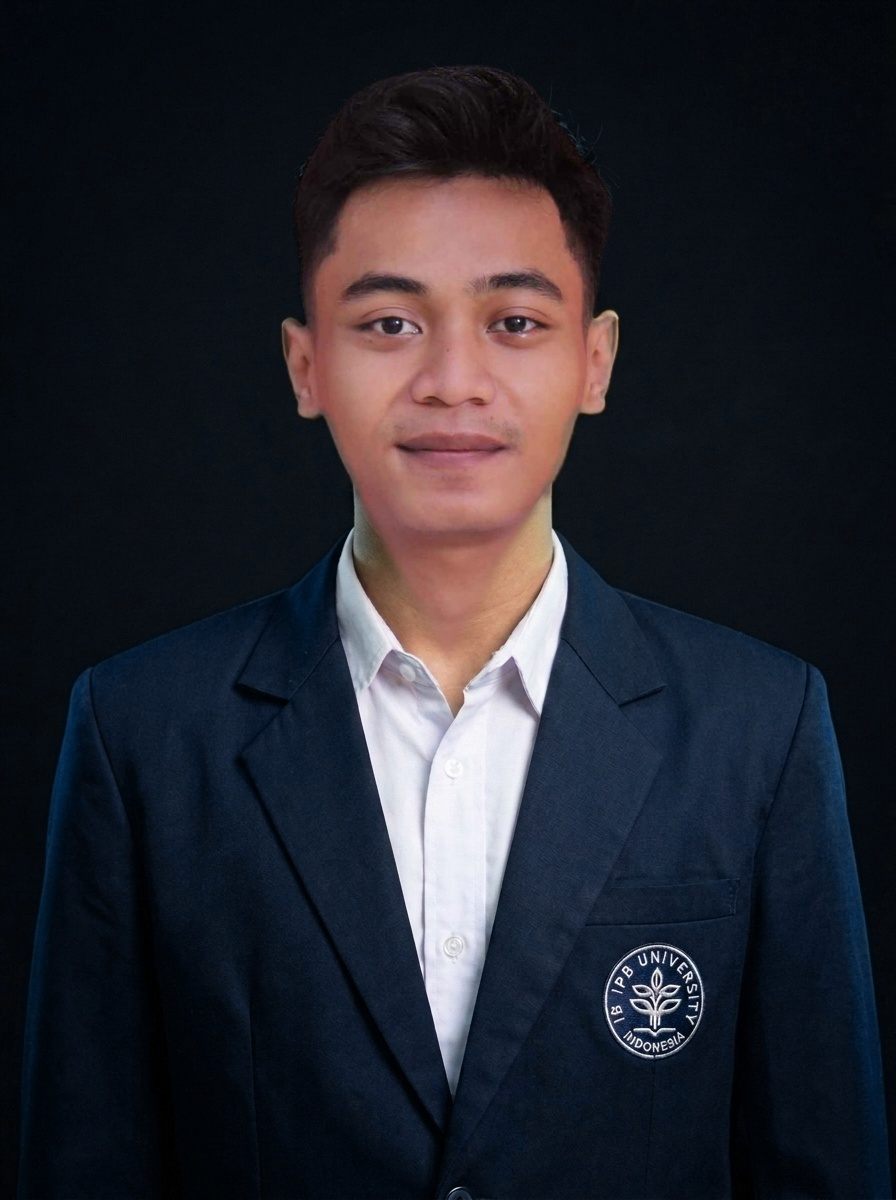
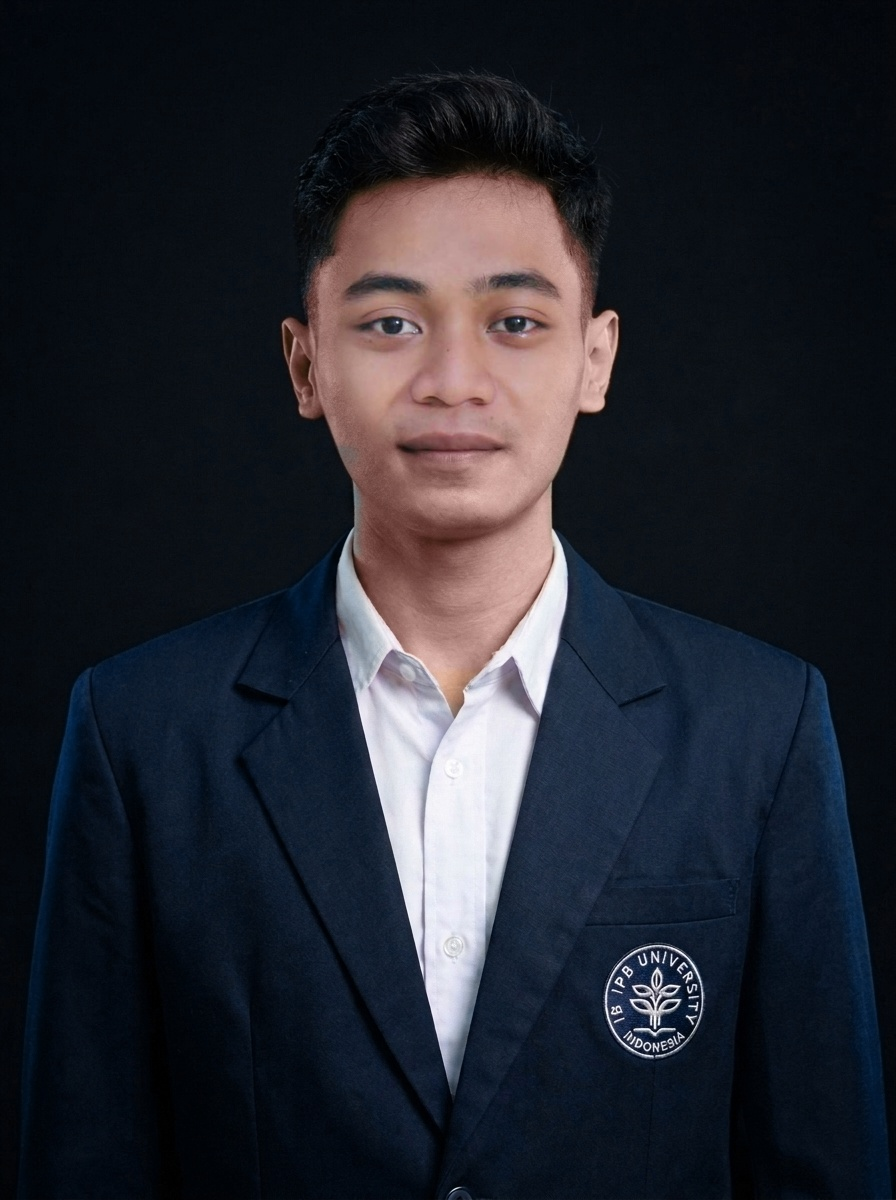
Fix neck two-tone seam by unifying RGB-vs-Luma skin color across full neck and jaw

Changed region(s): [[0.3125, 0.0308, 0.6875, 0.555]]

diff --git a/src/data/portfolio.ts b/src/data/portfolio.ts
@@ -56,7 +56,7 @@ export const PROFILE_DATA = {
     id: "Bogor Tengah, Kota Bogor, Jawa Barat 16128",
   },
   cvUrl: "/cv/CV-Nabil-Zulfan-Nurtsani.pdf",
-  portraitUrl: "/images/profile-almet-ipb-real.jpg",
+  portraitUrl: "/images/profile-almet-ipb-v3.jpg",
   socials: {
     github: "https://github.com/nabjul",
     linkedin: "https://linkedin.com/in/nabil-zulfan-placeholder",
